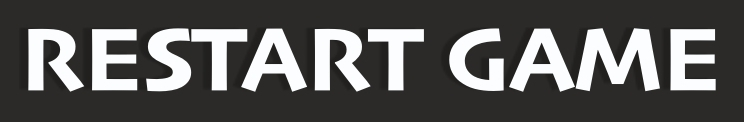
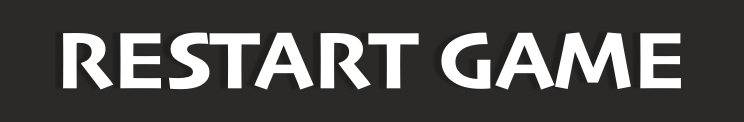
ya funcionando vs computadora

Changed region(s): [[0.0309, 0.2213, 0.9892, 0.7623]]

diff --git a/src/components/Game.jsx b/src/components/Game.jsx
@@ -1,8 +1,13 @@
 import React, { useState }  from 'react';
+import {NavLink} from 'react-router-dom';
 import GameResult from './GameResult';
-import Options from './Options';
+import OptionsPlayer from './OptionsPlayer';
+import OptionsDisabled from './OptionsDisabled';
 import Play from './Play';
-import { Button } from 'antd';
+import showResult from './../pictures/showResult.jpg'
+import restartGame from './../pictures/restartGame.jpg'
+import back from './../pictures/back.jpg'
+
 
 
 function Game(){
@@ -20,10 +25,12 @@ function Game(){
     }
 
     const play = () => {
-        const result = Play.startGame(playerOneChoice, randomChoice);
-        setResult(result);
-        if (result.finish==='won') setPlayerOneScore(playerOneScore+1); 
-        if (result.finish==='lost') setComputerScore(computerScore+1);
+        if(playerOneChoice){
+            const result = Play.startGame(playerOneChoice, randomChoice);
+            setResult(result);
+            if (result.finish==='won') setPlayerOneScore(playerOneScore+1); 
+            if (result.finish==='lost') setComputerScore(computerScore+1); 
+        }
     }
 
     const reset = () => {
@@ -44,23 +51,29 @@ function Game(){
         <div style={{display: "flex", justifyContent: "center", paddingTop: "80px"}}>
 
             <div>
-                <Options setAnOption={handleSelect}/>                
+                <OptionsPlayer setAnOption={handleSelect}/>                
             </div>
 
             <div style={{justifyContent: "center", minWidth:"800px"}}>
-                <GameResult result={result} playerOneChoice={playerOneChoice}
-                       playerTwoChoice={randomChoice} />
+
+                <GameResult result={result} playerOneChoice={playerOneChoice} playerTwoChoice={randomChoice} />
 
                 <div style={{ display: "flex", justifyContent: "center", cursor: "pointer"}}>
-                    <Button type="primary" shape="round" onClick={() => play()}> PLAY! </Button>
+                    <img style={{width:'400px', height:'66px'}} src={showResult} alt="" onClick={() => play()}/>
                 </div>
-                <div style={{ display: "flex", justifyContent: "center"}}>
-                    <Button type="primary" shape="round" onClick={() => reset()}> RESET GAME </Button>
+
+                <div style={{ display: "flex", justifyContent: "center", cursor: "pointer"}}>
+                    <img style={{width:'400px', height:'66px'}} src={restartGame} alt="" onClick={() => reset()}/>
                 </div>
+
+                <NavLink style={{ display: "flex", justifyContent: "center", cursor: "pointer"}} to={`/`}>
+                    <img style={{width:'400px', height:'66px'}} src={back} alt=""/>
+                </NavLink>
+
             </div>
 
             <div >
-                <Options setAnOption={handleSelect}/>
+                <OptionsDisabled/>
             </div>
 
     

diff --git a/src/components/GameResult.jsx b/src/components/GameResult.jsx
@@ -1,32 +1,47 @@
 import React from 'react';
 import unknown from './../pictures/unknown.jpg'
+import lizard from './../pictures/lizard.jpg'
+import paper from './../pictures/paper.jpg'
+import rock from './../pictures/rock.jpg'
+import scissors from './../pictures/scissors.jpg'
+import spock from './../pictures/spock.jpg'
 
 
 const GameResult= ({result, playerOneChoice, playerTwoChoice}) => {
 
+    const picture = (choice) => {
+        if (choice === "rock"){
+            return rock
+        }
+        if (choice === "paper"){
+            return paper
+        }
+        if (choice === "scissors"){
+            return scissors
+        }
+        if (choice === "lizard"){
+            return lizard
+        }
+        if (choice === "spock"){
+            return spock
+        }
+    }
+
     return(
-        <div style={{display: "flex", justifyContent: "center"}}>
+        <div>
 
-            <div style={{paddingRight: "200px"}}>
-                <h3>Player 1</h3>
-                    {<img src={playerOneChoice ? `./../pictures/${playerOneChoice}.jpg` : {unknown}}
-                        alt='player one' />}
-            </div>
-
-            <div>
+            <div style={{display: "flex", justifyContent: "center"}}>
                 {!result && <h1>VS</h1>}
                 {result && <p>{result.message}</p>}
             </div>
-
-            <div style={{paddingLeft: "200px"}}>
-                <h3>Player 2</h3>
-                    <img src={playerTwoChoice ? `./../pictures/${playerTwoChoice}.jpg` : {unknown}}
-                        alt='player two'/>
+            <div style={{display: "flex", justifyContent: "center"}}>
+                <img style={{width:'110px', height:'110px', paddingRight: "30px"}} src={playerOneChoice ? picture(playerOneChoice) : unknown} alt='player one' />
+                <img style={{width:'110px', height:'110px', paddingLeft: "30px"}} src={playerTwoChoice ? picture(playerTwoChoice) : unknown} alt='player two'/>
             </div>
 
-            
         </div>
     )
 }
 
 export default GameResult;
+

diff --git a/src/components/OptionsDisabled.jsx b/src/components/OptionsDisabled.jsx
@@ -1,0 +1,35 @@
+import React from 'react';
+import lizard from './../pictures/lizard.jpg'
+import paper from './../pictures/paper.jpg'
+import rock from './../pictures/rock.jpg'
+import scissors from './../pictures/scissors.jpg'
+import spock from './../pictures/spock.jpg'
+
+const OptionsDisabled = () => {
+
+    return (
+        <div>
+            <div>
+                <img src={rock} alt='rock' style={{width:'110px',height:'110px'}}/>
+            </div>
+            
+            <div>
+                <img src={paper} alt='paper' style={{width:'110px',height:'110px'}}/>
+            </div>
+            
+            <div>
+                <img src={scissors} alt='scissors'style={{width:'110px',height:'110px'}}/> 
+            </div>
+
+            <div>
+                <img src={lizard} alt='lizard'style={{width:'110px',height:'110px'}} /> 
+            </div>
+
+            <div>
+                <img src={spock} alt='spock' style={{width:'110px',height:'110px'}}/> 
+            </div>
+        </div>
+    )
+}
+
+export default OptionsDisabled;

diff --git a/src/components/OptionsPlayer.jsx b/src/components/OptionsPlayer.jsx
@@ -5,7 +5,7 @@ import rock from './../pictures/rock.jpg'
 import scissors from './../pictures/scissors.jpg'
 import spock from './../pictures/spock.jpg'
 
-const Options = ({setAnOption}) => {
+const OptionsPlayer = ({setAnOption}) => {
 
     return (
         <div>
@@ -32,4 +32,4 @@ const Options = ({setAnOption}) => {
     )
 }
 
-export default Options;
+export default OptionsPlayer;

diff --git a/src/App.js b/src/App.js
@@ -2,7 +2,6 @@ import './App.css';
 import React from 'react';
 import { BrowserRouter as Router, Switch, Route } from 'react-router-dom';
 import Landing from './components/Landing';
-import Navbar from './components/Navbar';
 import Rules from './components/Rules';
 import Game from './components/Game';
 

diff --git a/src/components/Landing.jsx b/src/components/Landing.jsx
@@ -1,5 +1,4 @@
 import React from 'react';
-import { Row, Col } from 'antd';
 import {NavLink} from 'react-router-dom';
 import logo from './../pictures/rpslsLogo.jpg'
 import rules from './../pictures/rules.jpg'
